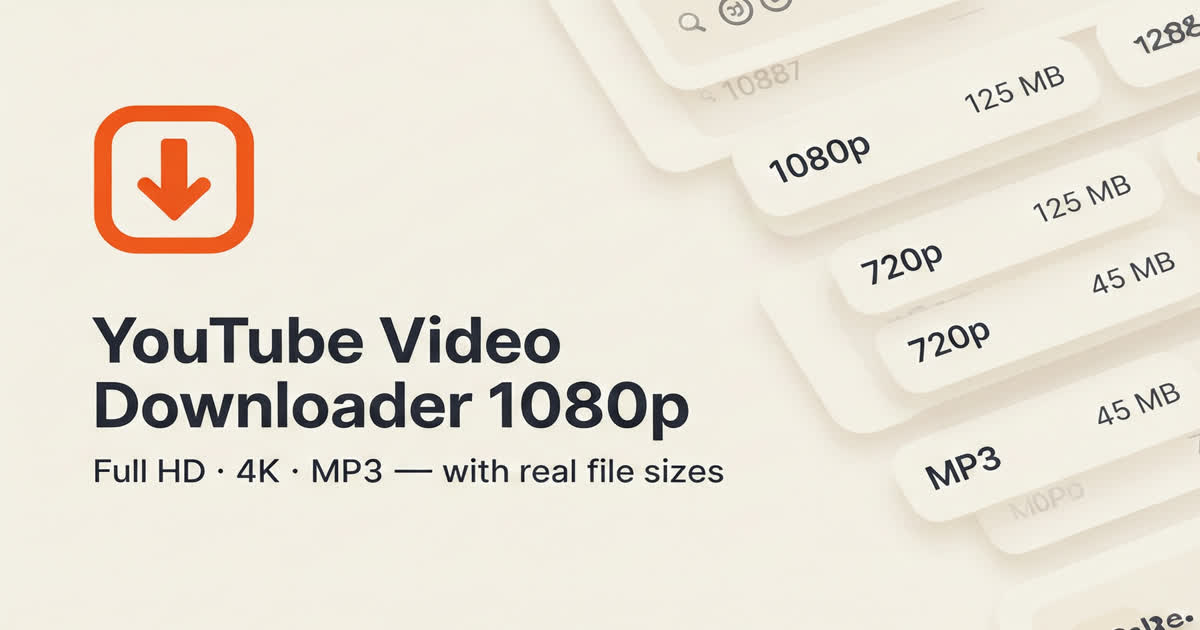
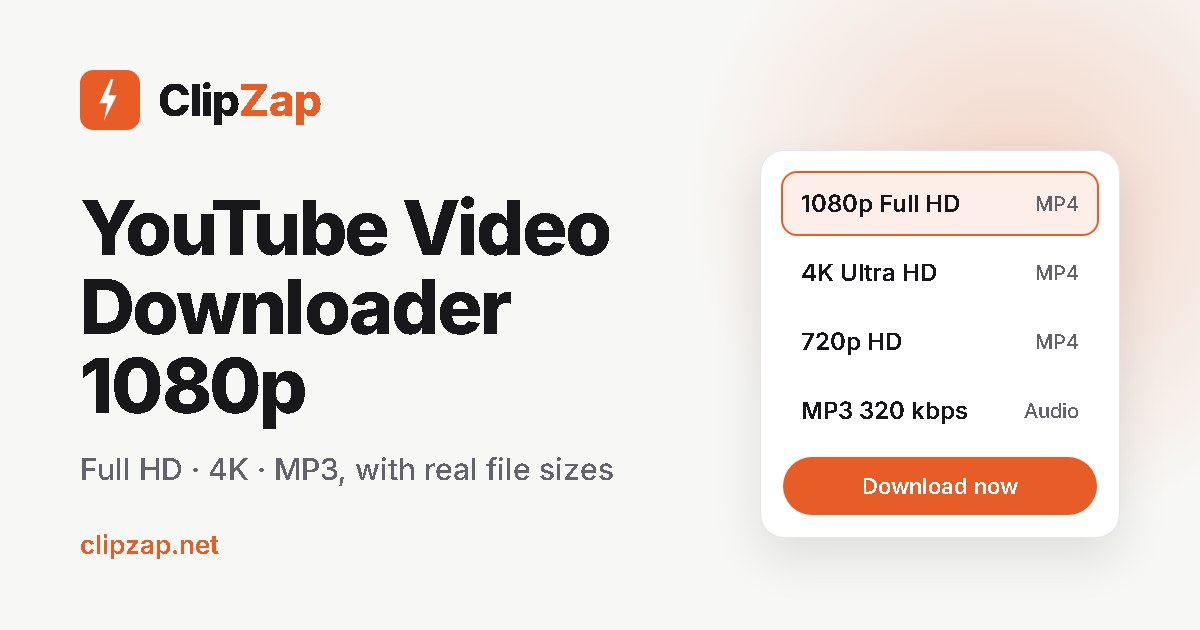
Rebrand to ClipZap on clipzap.net
- Rename HD Grab -> ClipZap across the site, metadata, schema, legal
  pages, server error page and docs; production URL is now
  https://clipzap.net (canonical, OG, JSON-LD, robots.txt, sitemap).
- Replace the apple-touch-icon (it was a squashed copy of the share
  image) with real 180/192/512/maskable icons and a 48px PNG favicon;
  unify favicon colour with the site accent; new branded OG image.
- Add CANONICAL_HOST: when set, 301 www and *.onrender.com page
  requests to the canonical domain (API excluded). Off by default
  until DNS is live; documented in render.yaml.
- Fix .container padding shorthand that removed vertical padding on
  legal and 404 pages on mobile.

diff --git a/artifacts/vidsnap/src/pages/legal.tsx b/artifacts/vidsnap/src/pages/legal.tsx
@@ -22,7 +22,7 @@ export function PrivacyPage() {
   return (
     <LegalLayout
       title="Privacy Policy"
-      intro="HD Grab is built to collect as little as possible. There are no accounts, no advertising trackers and no analytics cookies. This page explains exactly what happens to the data involved when you use the downloader."
+      intro="ClipZap is built to collect as little as possible. There are no accounts, no advertising trackers and no analytics cookies. This page explains exactly what happens to the data involved when you use the downloader."
     >
       <h2>What we process</h2>
       <ul>
@@ -53,7 +53,7 @@ export function PrivacyPage() {
 
       <h2>Cookies and tracking</h2>
       <p>
-        HD Grab does not set advertising or analytics cookies and does not use cross-site
+        ClipZap does not set advertising or analytics cookies and does not use cross-site
         tracking. Fonts are loaded from Google Fonts, which means your browser connects to Google
         to fetch them; Google's own privacy policy applies to that request.
       </p>
@@ -66,7 +66,7 @@ export function PrivacyPage() {
 
       <h2>Children</h2>
       <p>
-        HD Grab is a general-audience tool and does not knowingly collect personal information
+        ClipZap is a general-audience tool and does not knowingly collect personal information
         from children.
       </p>
 
@@ -82,11 +82,11 @@ export function TermsPage() {
   return (
     <LegalLayout
       title="Terms of Use"
-      intro="By using HD Grab you agree to these terms. They are short because the service is simple: a free tool for saving videos you are allowed to save, for personal use."
+      intro="By using ClipZap you agree to these terms. They are short because the service is simple: a free tool for saving videos you are allowed to save, for personal use."
     >
       <h2>Using the service</h2>
       <p>
-        HD Grab lets you save publicly available videos for personal, offline viewing. You are
+        ClipZap lets you save publicly available videos for personal, offline viewing. You are
         responsible for how you use the tool and for the files you download with it.
       </p>
 
@@ -107,7 +107,7 @@ export function TermsPage() {
 
       <h2>No affiliation</h2>
       <p>
-        HD Grab is an independent tool and is not affiliated with, endorsed by or sponsored by
+        ClipZap is an independent tool and is not affiliated with, endorsed by or sponsored by
         YouTube or Google LLC. YouTube is a trademark of Google LLC.
       </p>
 
@@ -120,13 +120,13 @@ export function TermsPage() {
 
       <h2>Limitation of liability</h2>
       <p>
-        To the fullest extent permitted by law, HD Grab is not liable for any damages arising
+        To the fullest extent permitted by law, ClipZap is not liable for any damages arising
         from your use of the service or of content you download.
       </p>
 
       <h2>Changes</h2>
       <p>
-        We may update these terms from time to time. Continuing to use HD Grab after a change
+        We may update these terms from time to time. Continuing to use ClipZap after a change
         means you accept the updated terms.
       </p>
     </LegalLayout>

diff --git a/artifacts/vidsnap/index.html b/artifacts/vidsnap/index.html
@@ -9,11 +9,11 @@
     <meta name="robots" content="__ROBOTS__" />
     <link rel="canonical" href="__CANONICAL__" />
     <meta name="theme-color" content="#e85d27" />
-    <meta name="application-name" content="HD Grab" />
-    <meta name="apple-mobile-web-app-title" content="HD Grab" />
+    <meta name="application-name" content="ClipZap" />
+    <meta name="apple-mobile-web-app-title" content="ClipZap" />
 
     <!-- Open Graph -->
-    <meta property="og:site_name" content="HD Grab" />
+    <meta property="og:site_name" content="ClipZap" />
     <meta property="og:title" content="__TITLE__" />
     <meta property="og:description" content="__DESCRIPTION__" />
     <meta property="og:type" content="website" />
@@ -22,7 +22,7 @@
     <meta property="og:image:type" content="image/jpeg" />
     <meta property="og:image:width" content="1200" />
     <meta property="og:image:height" content="630" />
-    <meta property="og:image:alt" content="HD Grab: free YouTube video downloader in 1080p Full HD with audio" />
+    <meta property="og:image:alt" content="ClipZap: free YouTube video downloader in 1080p Full HD with audio" />
     <meta property="og:locale" content="en_US" />
 
     <!-- Twitter / X -->
@@ -32,6 +32,7 @@
     <meta name="twitter:image" content="__SITE_URL__/og-image.jpg" />
 
     <link rel="icon" type="image/svg+xml" href="/favicon.svg" />
+    <link rel="icon" type="image/png" sizes="48x48" href="/favicon-48.png" />
     <link rel="apple-touch-icon" href="/apple-touch-icon.png" />
     <link rel="manifest" href="/site.webmanifest" />
     <link rel="preconnect" href="https://fonts.googleapis.com" />

diff --git a/artifacts/vidsnap/src/site.ts b/artifacts/vidsnap/src/site.ts
@@ -18,7 +18,7 @@ export const PAGES: PageMeta[] = [
   {
     path: '/',
     file: 'index.html',
-    title: 'YouTube Video Downloader 1080p – Free HD, 4K & MP3 | HD Grab',
+    title: 'YouTube Video Downloader 1080p – Free HD, 4K & MP3 | ClipZap',
     description:
       'Download YouTube videos in 1080p Full HD, 720p, 4K or MP3 for free. Paste a link, see real file sizes for every format and save with audio. No app, no sign-up.',
     homeSchema: true,
@@ -26,21 +26,21 @@ export const PAGES: PageMeta[] = [
   {
     path: '/privacy',
     file: 'privacy.html',
-    title: 'Privacy Policy | HD Grab',
+    title: 'Privacy Policy | ClipZap',
     description:
-      'How HD Grab handles your data: no accounts, no tracking cookies, and video files that are streamed to you and never stored on our servers.',
+      'How ClipZap handles your data: no accounts, no tracking cookies, and video files that are streamed to you and never stored on our servers.',
   },
   {
     path: '/terms',
     file: 'terms.html',
-    title: 'Terms of Use | HD Grab',
+    title: 'Terms of Use | ClipZap',
     description:
-      'The terms for using HD Grab, the free online YouTube video downloader, including acceptable use and respecting creator copyright.',
+      'The terms for using ClipZap, the free online YouTube video downloader, including acceptable use and respecting creator copyright.',
   },
   {
     path: '/404',
     file: '404.html',
-    title: 'Page Not Found | HD Grab',
+    title: 'Page Not Found | ClipZap',
     description: 'The page you were looking for does not exist.',
     noindex: true,
   },

diff --git a/artifacts/vidsnap/src/components/faq.tsx b/artifacts/vidsnap/src/components/faq.tsx
@@ -8,7 +8,7 @@ export const FAQ_ITEMS = [
   },
   {
     q: 'Can I download just the audio as MP3?',
-    a: 'Yes. After you paste a link, choose one of the MP3 options. HD Grab extracts the audio track at 320 kbps or 128 kbps, so you can save music, podcasts and lectures as audio only.',
+    a: 'Yes. After you paste a link, choose one of the MP3 options. ClipZap extracts the audio track at 320 kbps or 128 kbps, so you can save music, podcasts and lectures as audio only.',
   },
   {
     q: 'Why does the 1080p option sometimes not appear?',
@@ -16,7 +16,7 @@ export const FAQ_ITEMS = [
   },
   {
     q: 'Why is the 1080p file missing audio?',
-    a: 'YouTube uses a technique called DASH, where it stores high-resolution video streams and the audio track as two separate files. Formats marked "Video Only" do not contain audio. Use the "Video + Audio" option from the list — HD Grab automatically combines the best video stream with the audio track into a single MP4 with sound.',
+    a: 'YouTube uses a technique called DASH, where it stores high-resolution video streams and the audio track as two separate files. Formats marked "Video Only" do not contain audio. Use the "Video + Audio" option from the list — ClipZap automatically combines the best video stream with the audio track into a single MP4 with sound.',
   },
   {
     q: 'Is 1080p 60fps supported?',

diff --git a/artifacts/api-server/src/routes/video.ts b/artifacts/api-server/src/routes/video.ts
@@ -529,7 +529,7 @@ async function runStreamingDownload(
   },
 ): Promise<void> {
   const releases: (() => void)[] = [];
-  const dir = await mkdtemp(path.join(os.tmpdir(), "hdgrab-"));
+  const dir = await mkdtemp(path.join(os.tmpdir(), "clipzap-"));
   let finished = false;
 
   const finish = () => {
@@ -711,7 +711,7 @@ function sendDownloadError(req: Request, res: Response, status: number, message:
   res.status(status);
   if (req.accepts(["json", "html"]) === "html") {
     res.type("html").send(`<!doctype html><html lang="en"><head><meta charset="utf-8">
-<meta name="viewport" content="width=device-width,initial-scale=1"><title>Download failed · HD Grab</title>
+<meta name="viewport" content="width=device-width,initial-scale=1"><title>Download failed · ClipZap</title>
 <style>body{font-family:Inter,system-ui,sans-serif;background:#f7f7f5;color:#18181b;display:grid;place-items:center;min-height:100vh;margin:0;padding:16px}
 main{background:#fff;border:1px solid #e5e5e8;border-radius:16px;padding:28px;max-width:440px;text-align:center}
 h1{font-size:1.25rem;margin:0 0 8px}p{color:#63636b;margin:0 0 20px}

diff --git a/artifacts/vidsnap/src/components/footer.tsx b/artifacts/vidsnap/src/components/footer.tsx
@@ -33,7 +33,7 @@ export function Footer() {
           <div className="footer-brand">
             <Logo />
             <p>
-              HD Grab is a free, browser-based YouTube video downloader. Paste a link to save videos
+              ClipZap is a free, browser-based YouTube video downloader. Paste a link to save videos
               in 1080p Full HD, 720p, 4K or as MP3 audio, with real file sizes shown up front.
             </p>
           </div>
@@ -51,9 +51,9 @@ export function Footer() {
           ))}
         </div>
         <div className="footer-bottom">
-          <span>© {new Date().getFullYear()} HD Grab. All rights reserved.</span>
+          <span>© {new Date().getFullYear()} ClipZap. All rights reserved.</span>
           <span>
-            HD Grab is not affiliated with YouTube or Google LLC. Download only content you have the
+            ClipZap is not affiliated with YouTube or Google LLC. Download only content you have the
             right to save.
           </span>
         </div>

diff --git a/artifacts/vidsnap/src/components/logo.tsx b/artifacts/vidsnap/src/components/logo.tsx
@@ -1,13 +1,13 @@
 /** Brand mark: the same bolt-on-tile shape as favicon.svg, so tab icon and header match. */
 export function Logo() {
   return (
-    <a href="/" className="logo" aria-label="HD Grab home">
+    <a href="/" className="logo" aria-label="ClipZap home">
       <svg className="logo-mark" viewBox="0 0 180 180" width="32" height="32" aria-hidden="true">
         <rect width="180" height="180" rx="40" fill="currentColor" />
         <path d="M92 28 L58 100 L82 100 L72 152 L110 76 L86 76 L100 28 Z" fill="#fff" />
       </svg>
       <span>
-        HD<span className="logo-accent"> Grab</span>
+        Clip<span className="logo-accent">Zap</span>
       </span>
     </a>
   );

diff --git a/artifacts/api-server/src/app.ts b/artifacts/api-server/src/app.ts
@@ -36,6 +36,18 @@ app.use(
   }),
 );
 app.use(securityHeaders);
+
+// Single public domain: www.clipzap.net and the *.onrender.com URL -> clipzap.net.
+// /api stays reachable on every host so health checks and in-flight calls keep working.
+if (env.canonicalHost) {
+  app.use((req: Request, res: Response, next: NextFunction) => {
+    if (req.hostname === env.canonicalHost || req.path.startsWith("/api")) {
+      next();
+      return;
+    }
+    res.redirect(301, `https://${env.canonicalHost}${req.originalUrl}`);
+  });
+}
 // Same-origin in production (SPA served below); open in dev for local tooling.
 if (!env.isProduction) {
   app.use(cors());

diff --git a/artifacts/api-server/src/lib/env.ts b/artifacts/api-server/src/lib/env.ts
@@ -61,6 +61,13 @@ export const env = {
   heavyRateLimitMax: num("HEAVY_RATE_LIMIT_MAX", 30),
   heavyRateLimitWindowMs: num("HEAVY_RATE_LIMIT_WINDOW_MS", 60_000),
 
+  /**
+   * Public hostname (e.g. "clipzap.net"). When set, page requests arriving on
+   * any other host (www., the *.onrender.com URL) get a 301 to it, so search
+   * engines only index one domain. Leave unset until DNS points at this server.
+   */
+  canonicalHost: str("CANONICAL_HOST", "").toLowerCase(),
+
   /** Optional override for the built SPA directory served by this server. */
   staticRoot: process.env.STATIC_ROOT,
 } as const;

diff --git a/artifacts/vidsnap/src/components/results-step.tsx b/artifacts/vidsnap/src/components/results-step.tsx
@@ -185,7 +185,7 @@ export function ResultsStep({
           </div>
 
           <p className="results-copy">
-            Tip: <strong>Video + Audio</strong> rows save a single file with sound — HD Grab fetches
+            Tip: <strong>Video + Audio</strong> rows save a single file with sound — ClipZap fetches
             the video and audio streams in parallel and merges them, which is the fastest way to get
             1080p. <strong>Audio</strong> rows include MP3 at 320/128 kbps. If a download fails,
             click generate again to get a fresh link.

diff --git a/artifacts/vidsnap/src/index.css b/artifacts/vidsnap/src/index.css
@@ -68,7 +68,8 @@ a {
   width: 100%;
   max-width: 1120px;
   margin: 0 auto;
-  padding: 0 1.5rem;
+  padding-left: 1.5rem;
+  padding-right: 1.5rem;
 }
 
 /* ───────────────────────── Header ───────────────────────── */
@@ -1058,7 +1059,8 @@ a {
 
 @media (max-width: 600px) {
   .container {
-    padding: 0 1rem;
+    padding-left: 1rem;
+    padding-right: 1rem;
   }
   .hero {
     padding-top: 2.5rem;

diff --git a/artifacts/vidsnap/src/App.tsx b/artifacts/vidsnap/src/App.tsx
@@ -95,7 +95,7 @@ export default function App() {
           )}
         </div>
 
-        <ul className="trust-row" aria-label="Why HD Grab">
+        <ul className="trust-row" aria-label="Why ClipZap">
           {TRUST_POINTS.map((point) => (
             <li key={point}>
               <Check size={16} aria-hidden="true" />
